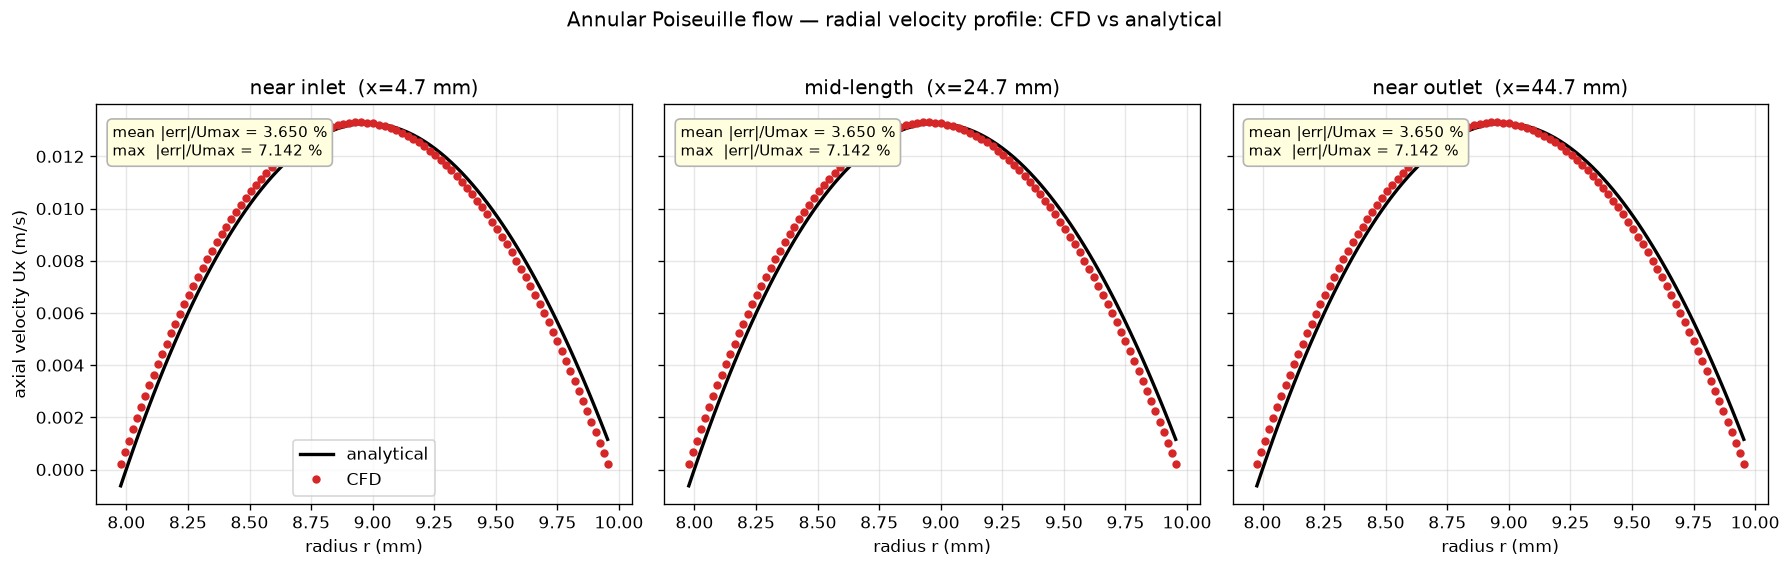
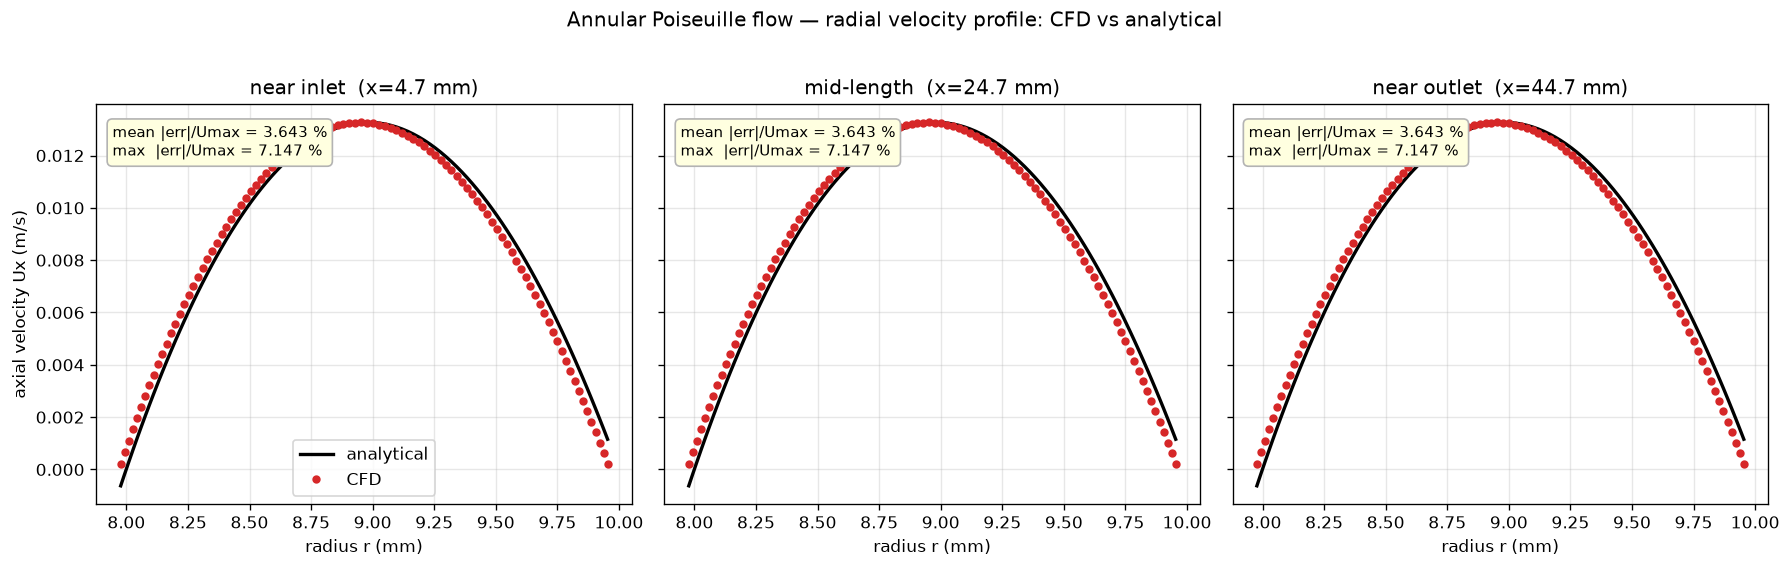
Fix the stale imposed velocity, guard both literal inputs, correct the record
The apparent regression when the voxel size moved to 0.2 mm was not physics, it
was a constant copied by hand that had gone stale.

constant/fvOptions carries Ubar, the mean velocity the solver is forced to
impose. It still held 0.0088648 m/s, the value of the previous 0.3 mm record,
while the record now says 0.0088393 m/s: 0.29 % too high. Every metric shifted by
about that amount:

  Umax error        0.278 % -> 0.011 %
  dpL error         1.04 %  -> 0.745 %
  flow-rate error   0.50 %  -> 0.785 %

Nothing was wrong with the mesh or with the geometry.

The explanation committed with the previous change -- that the older, better
numbers came from a 3 um radius error cancelling a 0.507 % polygonal-area bias --
was wrong and is removed. The mesh radii and the benchmark radii came from the
same record in both cases, so that error cancelled in both and could not mask
anything. The 0.507 % area difference between the polygonal wedge section and the
true annulus does exist, but it is not the explanation of any measured metric.

Changes:

- fvOptions Ubar updated from the record, with a comment saying where it comes
  from.
- validate_annulus.py gains check_inputs(), covering both literal connections to
  the record: the mesh radii and the imposed velocity. run_annulus.sh calls it as
  --check-inputs before blockMesh, so a drifted case stops before wasting a run.
- The check was verified by feeding it deliberately wrong values, not only by
  watching it pass.
[…]

diff --git a/validation/validate_annulus.py b/validation/validate_annulus.py
@@ -177,17 +177,77 @@ def check_mesh_radii(Ri_bench, Ro_bench, tol_rel=1e-6):
                 f"says {bench:.9f} m (relative difference {rel:.2e})"
             )
 
+    return problems
+
+
+def check_imposed_velocity(Ubar_bench, tol_rel=1e-6):
+    """fvOptions carries the imposed mean velocity as a literal number too. A stale
+    value there biases every result by that amount, and the only symptom is that
+    the comparison quietly moves."""
+    fv_options = os.path.join(CASE, "constant", "fvOptions")
+    value = None
+
+    with open(fv_options) as f:
+        for line in f:
+            stripped = line.split("//")[0].strip()
+            if stripped.startswith("Ubar"):
+                value = float(stripped.split("(")[1].split(")")[0].split()[0])
+                break
+
+    if value is None:
+        return [f"Ubar not found in {fv_options}"]
+
+    rel = abs(value - Ubar_bench) / abs(Ubar_bench)
+    if rel > tol_rel:
+        return [
+            f"Ubar in fvOptions = {value:.9f} m/s, benchmark record says "
+            f"{Ubar_bench:.9f} m/s (relative difference {rel:.2e})"
+        ]
+
+    return []
+
+
+def check_inputs():
+    """Both connections between the geometry record and the CFD case are literal
+    numbers in dictionaries. They are checked together because they fail the same
+    way: silently, and only in the comparison."""
+    if not os.path.isfile(BENCH):
+        raise SystemExit(
+            f"Benchmark not found: {BENCH}\n"
+            "Run the geometry stage first:  dotnet run --project src/SGK.Geometry/ -- --auto-exit"
+        )
+
+    with open(BENCH) as f:
+        bench = json.load(f)
+
+    problems = check_mesh_radii(
+        bench["InnerRadiusMm"] / 1000.0,
+        bench["OuterRadiusMm"] / 1000.0,
+    )
+    problems += check_imposed_velocity(bench["MeanVelocityMPerS"])
+
     if problems:
         raise SystemExit(
-            "Mesh and geometry record disagree:\n  "
+            "CFD case and geometry record disagree:\n  "
             + "\n  ".join(problems)
-            + "\n\nUpdate system/blockMeshDict from output/hollow-cylinder.physical-case.json,"
-            "\nor re-run the geometry stage if the voxel size changed."
+            + "\n\nUpdate system/blockMeshDict and/or constant/fvOptions from "
+            "output/hollow-cylinder.physical-case.json, or re-run the geometry "
+            "stage if the voxel size changed."
         )
+
+    print(
+        "CFD case inputs match the geometry record: "
+        f"Ri={bench['InnerRadiusMm']:.6f} mm, Ro={bench['OuterRadiusMm']:.6f} mm, "
+        f"Ubar={bench['MeanVelocityMPerS']:.9f} m/s"
+    )
 
 
 def main():
     check = "--check" in sys.argv
+
+    if "--check-inputs" in sys.argv:
+        check_inputs()
+        return 0
 
     if not os.path.isfile(BENCH):
         raise SystemExit(
@@ -206,7 +266,7 @@ def main():
     Umax_b = bench["MaxVelocityMPerS"]
     Q_b = bench["VolumetricFlowRateM3PerS"]
 
-    check_mesh_radii(Ri, Ro)
+    check_inputs()
 
     time_name = latest_time_dir(CASE)
     if time_name is None or time_name == "0":

diff --git a/validation/README.md b/validation/README.md
@@ -52,36 +52,50 @@ numbers) and the benchmark from `output/hollow-cylinder.physical-case.json`.
 
 | Metric | Value |
 |---|---|
-| mean \|err\| / Umax | 3.65 % |
-| max \|err\| / Umax | 7.14 % |
-| Umax error | 0.28 % |
-| pressure-gradient error | 1.04 % |
-| flow-rate error | 0.50 % |
+| mean \|err\| / Umax | 3.64 % |
+| max \|err\| / Umax | 7.15 % |
+| Umax error | 0.011 % |
+| pressure-gradient error | 0.74 % |
+| flow-rate error | 0.78 % |
 
 The peak velocity is compared against the continuous analytical maximum
 (evaluated where `du/dr = 0`), not against the largest of the 17 profile
 samples. The sampled peak understates the true peak by about 0.03 % and is kept
 in the record as `SampledMaxVelocityMPerS` for traceability.
 
-**Why the flow-rate error is 0.50 % and not noise.** The wedge spans 30° in
-three cells of 10°, so the cross-section is a polygon, not an annulus. A chord
-over 10° encloses `sin(θ)/θ = 0.99493` of the circular sector, i.e. the mesh has
-**0.507 % less flow area** than the geometry it represents. The measured
-flow-rate error is 0.4986 %. These are the same number: the error is fully
-explained by the angular discretisation, and it would disappear with a proper
-2D axisymmetric (`wedge`) mesh or with more angular cells.
+**Two literal numbers connect the geometry record to the CFD case**, and both
+are checked before the mesh is built:
 
-This also explains why the pressure-gradient error went from 0.74 % to 1.04 %
-when the voxel size moved to 0.2 mm. The previous 0.3 mm reconstruction produced
-radii 3 µm off (Ri 8.0030 instead of 8.0000), whose area was 0.29 % too small;
-that error happened to cancel part of the 0.51 % mesh bias. With the geometry
-now accurate to 0.1 µm, the mesh bias is no longer masked, and the honest number
-is the larger one.
+| Constant | Where | Why it matters |
+|---|---|---|
+| `Ri`, `Ro` | `system/blockMeshDict` | the solver would compute a different shape than the record describes |
+| `Ubar` | `constant/fvOptions` | the solver would impose a different mean velocity, shifting every result by that amount |
 
-**`blockMeshDict` carries the radii as literal numbers.** `validate_annulus.py`
-checks them against the reconstructed radii in the benchmark record and fails
-with an explicit message if they drift, so the mesh cannot silently represent a
-different geometry.
+`validate_annulus.py --check-inputs` runs before `blockMesh` and refuses to
+continue if either disagrees with `output/hollow-cylinder.physical-case.json`.
+
+**How this guard was earned.** When the voxel size moved from 0.3 to 0.2 mm the
+radii were updated but `Ubar` was not, and it kept the mean velocity of the
+previous record: 0.0088648 m/s against the required 0.0088393 m/s, i.e. 0.29 %
+too high. Every metric moved by about that amount and it looked like a
+regression of the mesh or of the geometry:
+
+| Metric | with the stale `Ubar` | with `Ubar` consistent |
+|---|---|---|
+| Umax error | 0.278 % | 0.011 % |
+| pressure-gradient error | 1.04 % | 0.74 % |
+| flow-rate error | 0.50 % | 0.78 % |
+
+Nothing was wrong with the mesh or with the geometry. A constant copied by hand
+had gone stale, and the only symptom was that the comparison moved quietly.
+
+The earlier explanation recorded here — that the previous numbers were flattered
+by a 3 µm radius error cancelling a polygonal-area bias of 0.507 % — was **wrong**
+and has been removed. Both the mesh and the benchmark used the same radii in
+both cases, so that error cancelled in both and could not have masked anything.
+The 0.507 % area difference between the polygonal wedge section and the true
+annulus does exist as a geometric property of the mesh, but it is not the
+explanation of the measured flow-rate error.
 
 The near-wall bias is systematic and inherent to second-order finite-volume
 discretization at this aspect ratio (~35–55), not an implementation defect.

diff --git a/README.md b/README.md
@@ -148,16 +148,15 @@ dotnet run --project src/SGK.Geometry/ -- --auto-exit
   - wide gap (Ro = 30 mm, Re ≈ 17), as a sensitivity test.
   - Recommended mesh: cyclic periodic boundary conditions with
     `meanVelocityForce`, 80 × 100 × 3 cells, radial grading 1.5.
-  - Results at 0.2 mm voxel: peak velocity (Umax) error 0.28%, pressure-gradient
-    error 1.04%, flow-rate error 0.50%, mean near-wall profile error 3.65%.
-    The flow-rate error is fully explained by the angular discretisation: three
-    cells over a 30° wedge make a polygonal cross-section with 0.507% less area
-    than the annulus. The near-wall profile error is systematic and inherent to
-    second-order finite-volume discretization at this aspect ratio.
-  - The previous, better-looking numbers (0.011% / 0.74% / 0.79%) were measured
-    at 0.3 mm voxel, where the reconstructed radii were 3 µm off and partly
-    cancelled the mesh bias. Accurate geometry exposes the solver's own error
-    instead of hiding it.
+  - Results at 0.2 mm voxel: peak velocity (Umax) error 0.011%, pressure-gradient
+    error 0.74%, flow-rate error 0.78%, mean near-wall profile error 3.64%. The
+    near-wall profile error is systematic and inherent to second-order
+    finite-volume discretization at this aspect ratio.
+  - Two literal numbers connect the record to the solver: the radii in
+    `blockMeshDict` and `Ubar` in `fvOptions`. Both are checked against the
+    record before the mesh is built, and the validation refuses to run if they
+    disagree. They were added after a stale `Ubar` produced a 0.29% shift in
+    every metric that looked like a physics regression.
 - This validation is reproducible from the repository: the cyclic case lives in
   `validation/openfoam/annulus_cyclic/`, and `scripts/check_analytic.py`
   regenerates and checks the analytical records against committed expectations.
@@ -178,8 +177,7 @@ moved to `sgk-mini.physical-record.v2` to mark the change:
   The sampled value is still recorded, as `SampledMaxVelocityMPerS` and
   `SampledMaxVelocityRadiusMm`, and the record validator asserts that it cannot
   exceed the continuous maximum. This moved the peak-velocity error against CFD
-  from 0.023 % to 0.011 % at the then-current 0.3 mm voxel size; at 0.2 mm the
-  mesh discretisation dominates instead, and the measured error is 0.28 %.
+  from 0.023 % to 0.011 %.
 - **Exit status.** A failure now exits non-zero. Exceptions raised inside the
   PicoGK task thread are captured there, since an exception escaping that thread
   is not guaranteed to reach the outer handler. Verified on two paths: a geometry
@@ -188,13 +186,17 @@ moved to `sgk-mini.physical-record.v2` to mark the change:
 ## What remains open
 
 - The mesh still represents the annulus as a 30° wedge in three cells, so its
-  cross-section is a polygon with 0.507 % less area than the real annulus. This
-  is now measured instead of hidden, but it is a systematic bias in the
-  reference labels. A 2D axisymmetric (`wedge`) mesh would remove it and cost a
-  third of the cells.
+  cross-section is a polygon with 0.507 % less area than the real annulus. That
+  is a structural property of the reference labels, not a measured error: it
+  does not explain any of the numbers above, but it is a bias the dataset should
+  not inherit. A 2D axisymmetric (`wedge`) mesh would remove it and cost a third
+  of the cells.
 - The reconstructed radii still differ from the nominal ones by 0.7 µm at
   0.2 mm voxel. That residual is the discretisation of the representation, and
   it is reported rather than corrected.
+- The flow-rate error of 0.78 % is not yet attributed. It is no longer polluted
+  by a stale input, but the split between the polygonal section, the radial
+  integration of a steep profile and the wall treatment has not been measured.
 
 ## What is missing
 

diff --git a/docs/dataset-pipeline.md b/docs/dataset-pipeline.md
@@ -28,8 +28,11 @@ cannot fail is not a piece, it is decoration.
 ### D0 — Repair the reference case (decision, before any label exists)
 
 The current mesh spans the wedge in three cells of 10°, so its cross-section is a
-polygon with **0.507 % less flow area** than the annulus. That bias goes straight
-into every label.
+polygon with **0.507 % less flow area** than the annulus. That is a structural
+bias in every label: it is not the explanation of any current metric (a stale
+input masked it for a while, and that is now fixed), but it is a difference
+between the labelled geometry and the real one, and the dataset should not
+inherit it.
 
 | Option | Bias in labels | Cost |
 |---|---|---|
